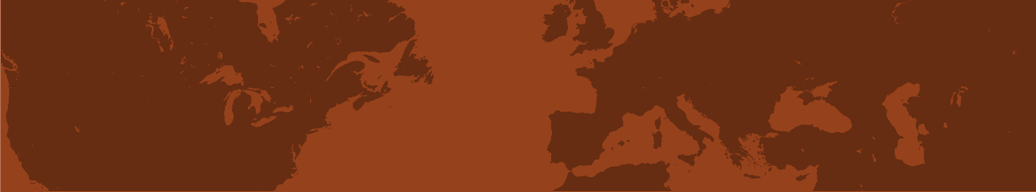
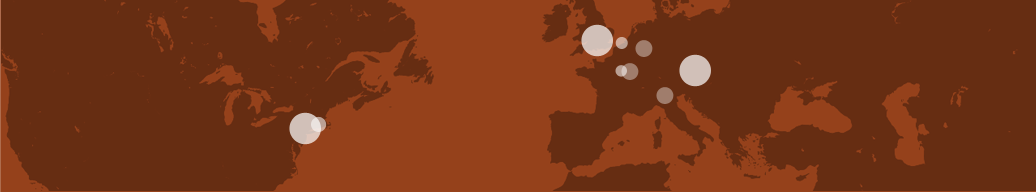
home page visualization map

Changed region(s): [[0.556, 0.125, 0.7104, 0.5312], [0.278, 0.5938, 0.3398, 0.75], [0.5869, 0.3125, 0.6178, 0.4062]]

diff --git a/media/css/main.css b/media/css/main.css
@@ -327,7 +327,7 @@ background-color: transparent;
   	margin: 2em auto;
 	}
 	.home-visual img {
-	max-width: 100%;
+	display: none;
 	}
 
 /* Block outercontainer Tablet */
@@ -401,6 +401,10 @@ background-color: transparent;
 	.home-search-two .home-search-submit:hover {
 		background-color: #222a38;
 	}
+	.home-visual img {
+	max-width: 100%;
+	display: block;
+	}
 }
 
 /* Block outercontainer Desktop */
@@ -420,9 +424,9 @@ background-color: transparent;
 	.home-intro-one {
 	  font-family: Arvo;
 	  font-weight: 400;
-	  font-size: 2.75em;
+	  font-size: 2.25em;
 	  color: #202836;
-	  line-height: 1.2em;
+	  line-height: 1.3em;
 	  text-align: left;
 	}
 	.home-intro-two {
@@ -436,8 +440,8 @@ background-color: transparent;
 	.home-search {
 	  background-color: #edebe6;
 	  min-height: 200px;
-	  margin: 12em 0 0 -5em;
-	  padding: 1em 2em;
+	  margin: 7.5em 0 0 -5em;
+	  padding: 1.5em 2em;
 	}
 	.home-search-one {
 	font-family: Arvo;
@@ -457,7 +461,7 @@ background-color: transparent;
 	.home-search-two .home-search-text {
 	  font-family: Asap;
 	  font-size: 1.1em;
-	  width: 80%;
+	  width: 70%;
 	  background-color: #e5d9ca;
 	  border-radius: 4px;
 	  border: solid 1px #fff;
@@ -476,6 +480,89 @@ background-color: transparent;
 	}
 	.home-search-two .home-search-submit:hover {
 		background-color: #222a38;
+	}
+	.home-visual {
+		width: 100%;
+		display: block;
+		text-align: center;
+	}
+	
+	.visual-exp {
+	  text-align: center;
+	  font-family: Arvo;
+	  font-size: 1.35em;
+	  background-color: #fff;
+	  padding: 10px 100px;
+	  margin: 35px 64px -4px 63px;
+	}
+	
+	.home-visual img {
+	max-width: 100%;
+	display: initial;
+	border: solid 4px #fff;
+	}
+	
+	.map-loc-1 {
+	  position: absolute;
+	  top: 115px;
+	  display: block;
+	  background-image: url("../img/fp_map_loc_1.png");
+	  width: 152px;
+	  height: 28px;
+	  left: 200px;
+	  -webkit-transition: background-image 2s; /* Safari */
+    transition: background-image 2s;
+	}
+	
+	.map-loc-2 {
+	  position: absolute;
+	  top: 30px;
+	  display: block;
+	  background-image: url("../img/fp_map_loc_2.png");
+	  width: 152px;
+	  height: 28px;
+	  left: 490px;
+	  	  -webkit-transition: background-image 2s; /* Safari */
+    transition: background-image 2s;
+	}
+	.map-loc-3 {
+	  position: absolute;
+	  top: 59px;
+	  display: block;
+	  background-image: url("../img/fp_map_loc_3.png");
+	  width: 115px;
+	  height: 28px;
+	  left: 785px;
+	  	  -webkit-transition: background-image 2s; /* Safari */
+    transition: background-image 2s;
+	}
+		.map-loc-1:hover {
+	  position: absolute;
+	  top: 115px;
+	  display: block;
+	  background-image: url("../img/fp_map_loc_1_over.png");
+	  width: 152px;
+	  height: 28px;
+	  left: 200px;
+	}
+	
+	.map-loc-2:hover {
+	  position: absolute;
+	  top: 30px;
+	  display: block;
+	  background-image: url("../img/fp_map_loc_2_over.png");
+	  width: 152px;
+	  height: 28px;
+	  left: 490px;
+	}
+	.map-loc-3:hover {
+	  position: absolute;
+	  top: 59px;
+	  display: block;
+	  background-image: url("../img/fp_map_loc_3_over.png");
+	  width: 115px;
+	  height: 28px;
+	  left: 785px;
 	}
 }
 

diff --git a/footprints/templates/main/index.html b/footprints/templates/main/index.html
@@ -65,7 +65,7 @@
             {% block primarynav %}{% endblock %}
             {% block pagemode %}{% endblock %}
             <div class="row">
-              <div class="col-md-7 home-intro">
+              <div class="col-md-8 home-intro">
                   <div class="home-intro-one">
                       Footprints traces the history and movement of Jewish books since the inception of print.
                   </div>
@@ -74,10 +74,11 @@
                       </p>
                       <p>
 Every literary work represents a moment in time and space where an idea was conceived and documented. But the history of a book continues long after composition as it is bought, sold, shared, read, confiscated, stored, or even discarded. This history is the essence of Footprints.</p>
+<p>Click on the Footprint titles on the map below to visualize the journey of Jewish books across the world and throughout time.</p>
                   </div>
                   
               </div>
-              <div class="col-md-5 home-search">
+              <div class="col-md-4 home-search">
                   <div class="home-search-one">Search for Footprints</div>
                   <div class="home-search-two">
                       A footprint is a record of the material presence of a literary work at a particular time and place:
@@ -97,6 +98,9 @@ Every literary work represents a moment in time and space where an idea was conc
            <div class="row">
                <div class="col-md-12 home-visual">
                    <img src="{{STATIC_URL}}img/fp_home_ex_visual.jpg">
+                   <a href=""><div class="map-loc-1"></div></a>
+                   <a href=""><div class="map-loc-2"></div></a>
+                   <a href=""><div class="map-loc-3"></div></a>
                </div>
            </div> <!-- /.row (second)-->
         </div> <!-- /.content -->
